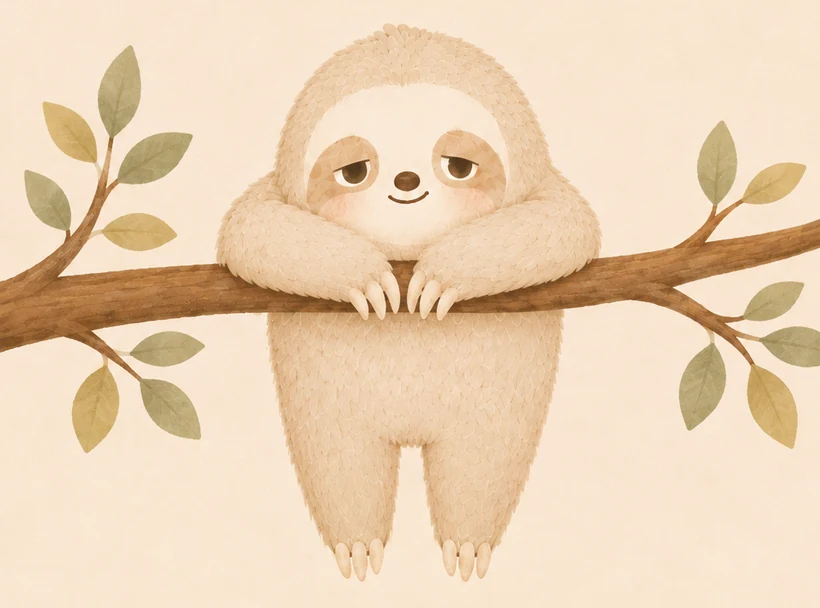
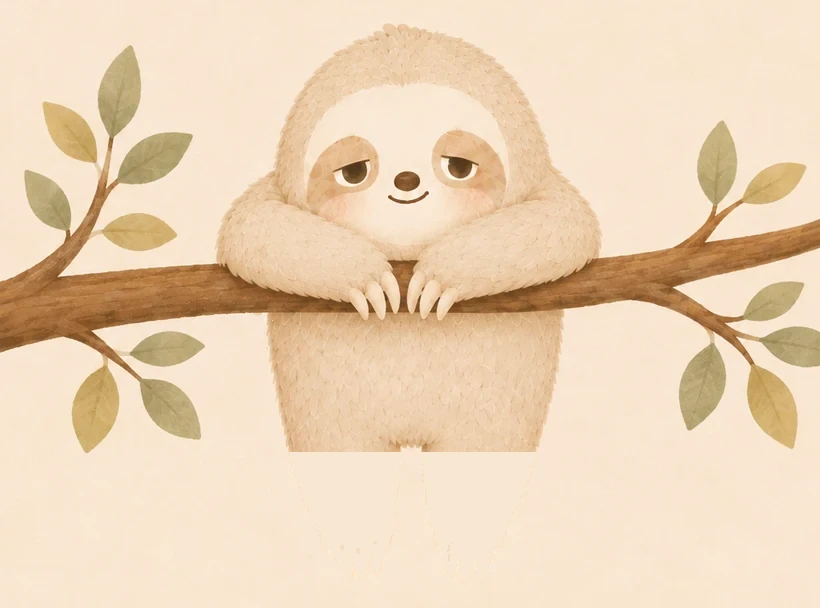
對話框的尾巴不再戳到頭；眨眼加快；兩條腿會開合
## 十七張的 ml 全部算錯了

`ml`（泡泡往圖片壓多少）我當初是拿**白色臉盤**的右緣算的。
但頭的毛比臉盤還往外 8–26% —— 尾巴閃過了臉盤，卻戳進毛裡。

改成量「臉盤所在那幾列裡，整個非背景區域」的最右欄。
修正後幾乎每張都從負值（壓在圖上）變成正值（留空隙）。
實測 r9：尾尖從戳進頭 8px 變成清空 13px。

⚠ `at`（尾巴的高度）仍然用白色臉盤 —— 那個要對準眼睛的位置，量臉盤是對的。
**兩個數字量的是不同東西，不要一起改。**

## 眨眼 6.5s → 3.6s

她的原話：「這個頁面很難停太久」。閉著仍是 180ms。

## 兩條腿開合

腿從同一張圖切下來（透明底），底圖對應位置擦成背景色，各自繞髖部 ±7° 反向轉。
髖部上方留 6px 的毛當蓋子，轉的時候露出來的是身體不是背景。

⛔ 這招能用**只因為腿本來就懸空** —— 左右和中間都是平背景，邊界乾淨。
同樣的切法在樹枝上失敗過（波浪狀的邊、還有爪子跨在上面）。
**要切之前先問：這個東西的邊界是不是乾淨的。**

ASSETS 37 -> 38

Changed region(s): [[0.5183, 0.7188, 0.6707, 0.9688], [0.3354, 0.7188, 0.4878, 0.9688]]

diff --git a/index.html b/index.html
@@ -264,7 +264,7 @@ img { display: block; max-width: 100%; }
 }
 
 @media (prefers-reduced-motion: reduce) {
-  .bo-swing, .bo-leaf-a, .bo-leaf-b, .blink { animation: none; }
+  .bo-swing, .bo-leaf-a, .bo-leaf-b, .blink, .leg { animation: none; }
 }
 
 /* 慢寶全身站著說話：牠在左，話在右，尾尖指向牠的頭。
@@ -336,13 +336,32 @@ img { display: block; max-width: 100%; }
   position: absolute;
   left: 38.78%; top: 22.70%; width: 21.71%;
   opacity: 0; pointer-events: none;
-  animation: blink 6.5s linear infinite;
+  animation: blink 3.6s linear infinite;
 }
+/* 兩條腿開開合合。
+   腿是從同一張圖切下來的透明素材（懸空、左右和中間都是背景，邊界乾淨），
+   底圖對應的位置已經擦成背景色。**支點在髖部**，所以接縫處位移＝0；
+   髖部上方還留了 6px 的毛當蓋子，轉的時候露出來的是身體不是背景。
+
+   ⛔ 這招能用是因為腿本來就懸空。樹枝那次同樣想切，失敗了 ——
+   那裡的切線得沿著波浪狀的樹枝上緣走，而且有爪子跨在上面。
+   **要切之前先問：這個東西的邊界是不是乾淨的。** */
+.bo-stage img.leg {
+  position: absolute; top: 72.204%;
+  pointer-events: none;
+}
+.bo-stage img.leg-l { left: 31.951%; width: 18.049%; transform-origin: 55.4% 3.6%;
+                      animation: legL 2.6s ease-in-out infinite; }
+.bo-stage img.leg-r { left: 50.000%; width: 19.024%; transform-origin: 43.6% 3.6%;
+                      animation: legR 2.6s ease-in-out infinite; }
+@keyframes legL { 0%, 100% { transform: rotate(0deg); }   50% { transform: rotate(-7deg); } }
+@keyframes legR { 0%, 100% { transform: rotate(0deg); }   50% { transform: rotate(7deg); } }
+
 /* 成對的關鍵影格＝瞬間切換，眨眼不該是淡入淡出的。閉著約 180ms */
 @keyframes blink {
-  0%, 94%      { opacity: 0; }
-  94.1%, 96.8% { opacity: 1; }
-  96.9%, 100%  { opacity: 0; }
+  0%, 89%      { opacity: 0; }
+  89.1%, 94%   { opacity: 1; }   /* 約 180ms */
+  94.1%, 100%  { opacity: 0; }
 }
 
 .bo-stage.drape { width: min(100%, 430px, 44vh); }    /* 820x608，比 1.349。vh 上限在矮螢幕才會咬到 */
@@ -725,7 +744,7 @@ ol.steps li::before {
    ══════════════════════════════════════════════ */
 
 /* 素材版本。換過圖就 bump 一次，否則瀏覽器會一直用舊的快取 */
-const ASSETS = '37';
+const ASSETS = '38';
 const asset = p => p + '?v=' + ASSETS;
 
 const $ = (s, el = document) => el.querySelector(s);
@@ -1059,6 +1078,8 @@ const BO = {
   drape:   asset('assets/bo/hang_drape.webp'),       // 菜單頁那個 132px 的近景
   drapeTree: asset('assets/bo/hang_drape_tree.webp'),// 首頁：趴在有葉子的樹枝上
   blink:   asset('assets/bo/drape_blink.webp'),      // 上一張的眼睛那一帶，改成閉眼
+  legL:    asset('assets/bo/leg_l.webp'),            // 兩條腿切下來（透明底），各自繞髖部擺
+  legR:    asset('assets/bo/leg_r.webp'),
   cookA:   asset('assets/bo/cook_bowl.webp'),
   lie:     asset('assets/bo/lie_sleep.webp'),    // 菜單空的：牠趴著睡，旁邊一個空碗
   shrug:   asset('assets/bo/shrug.webp'),        // 搜尋沒結果：攤手（去背，要站在木紋上）
@@ -1301,14 +1322,19 @@ function typeSeq(el, lines, last, onDone) {
    `ml` —— 泡泡的 margin-left，決定它往圖片壓多少（正值＝留空隙）。
       ⚠ **尾巴現在是指著臉的，所以水平方向必須讓開，否則會從側面戳進臉裡。**
       （舊版尾巴固定在泡泡 58% 高、比臉低，所以壓上去也沒撞到，那是僥倖。）
-      ml ＝ 臉盤右緣px ＋ 8 ＋ 尾巴長 16 − 顯示寬度，夾在 [−34, +14]
-      端鍋是唯一要留空隙的（+10）—— 牠正面站著，臉幾乎佔滿畫面寬度
+      ml ＝ **頭部右緣**px ＋ 8 ＋ 尾巴長 16 − 顯示寬度，夾在 [−34, +14]
 
-   量臉盤：找 R>247 G>238 B>225 的白色區域，取列的中位數（中心）和最右欄（右緣）。 */
+   ⛔ **右緣要量「頭」不是量「臉盤」。** 2026-08-17 十七張全部算錯：
+   白色臉盤的右緣比頭的實際輪廓少 8–26%（毛在外面），
+   尾巴閃過了臉盤卻戳進毛裡，使用者的原話是「不要戳到人家的頭」。
+   修正後幾乎每張都從負值（壓在圖上）變成正值（留空隙）。
+
+   量法：`at` 用白色臉盤（R>247 G>238 B>225）的列中位數；
+   `ml` 用**那幾列裡整個非背景區域**的最右欄。 */
 const MURMUR_POSES = [
   //                          at      ml       臉盤中心 / 右緣
-  { img: () => BO.cookA, at: 37, ml:   0 },   // 站著攪碗  25% / 70%
-  { img: () => BO.glass, at: 40, ml:  -2 },   // 看沙漏    27% / 67%
+  { img: () => BO.cookA, at: 37, ml: +14 },   // 站著攪碗  25% / 70%
+  { img: () => BO.glass, at: 40, ml: +9 },   // 看沙漏    27% / 67%
 ];
 
 /* 抱著食材的姿勢，對應那道菜的主料 —— 牠抱著牛肉出現在銅盤烤肉那頁，
@@ -1318,22 +1344,22 @@ const MURMUR_POSES = [
    寧可比對不到掉回中性姿勢，也不要對應錯的食材。 */
 const HOLD_POSES = [
   //  比對詞               姿勢                              at   ml
-  [/泡菜/,        { img: () => BO.kimchi,  at: 39, ml:  -6 }],  // 必須排在任何含「菜」的規則前面
-  [/海帶/,        { img: () => BO.seaweed, at: 38, ml:  -9 }],
-  [/香蕉/,        { img: () => BO.banana,  at: 41, ml:  -7 }],
-  [/燉飯/,        { img: () => BO.stirpan, at: 44, ml:  -5 }],  // 要一直攪的，排在「飯」前面
-  [/炒/,          { img: () => BO.spatula, at: 41, ml:  -8 }],  // 炒＝鍋鏟
-  [/義大利麵|麵條/,{ img: () => BO.cookB,   at: 35, ml: +10 }],  // 平底鍋 —— 蒜片冷油慢香是在平底鍋裡
-  [/肉醬/,        { img: () => BO.lidpot,  at: 39, ml:  -5 }],  // 蓋著鍋蓋慢慢燉。⚠ 要排在「牛」前面，
+  [/泡菜/,        { img: () => BO.kimchi, at: 39, ml: +9 }],  // 必須排在任何含「菜」的規則前面
+  [/海帶/,        { img: () => BO.seaweed, at: 38, ml: +7 }],
+  [/香蕉/,        { img: () => BO.banana, at: 41, ml: +8 }],
+  [/燉飯/,        { img: () => BO.stirpan, at: 44, ml: +8 }],  // 要一直攪的，排在「飯」前面
+  [/炒/,          { img: () => BO.spatula, at: 41, ml: +8 }],  // 炒＝鍋鏟
+  [/義大利麵|麵條/,{ img: () => BO.cookB, at: 35, ml: +10 }],  // 平底鍋 —— 蒜片冷油慢香是在平底鍋裡
+  [/肉醬/,        { img: () => BO.lidpot, at: 39, ml: +5 }],  // 蓋著鍋蓋慢慢燉。⚠ 要排在「牛」前面，
                                                                //   否則番茄肉醬會被副標的「豬牛混合」攔走
-  [/雞/,          { img: () => BO.chicken, at: 43, ml:  -1 }],
-  [/牛/,          { img: () => BO.beef,    at: 41, ml:  -5 }],
-  [/醬醃/,        { img: () => BO.taste,   at: 45, ml:  -9 }],  // 醬汁類，牠試味道
-  [/馬鈴薯|洋蔥/,  { img: () => BO.root,    at: 39, ml:  -4 }],
-  [/櫛瓜|青菜|菠菜|蔬菜/, { img: () => BO.basket, at: 40, ml: -4 }],
-  [/鍋/,          { img: () => BO.pot,     at: 42, ml:  -8 }],  // 燉煮類
-  [/飯/,          { img: () => BO.rice,    at: 45, ml:  -6 }],  // 排在「鍋」後面：辣醬鍋要的是鍋，不是那碗飯
-  [/蛋/,          { img: () => BO.egg,     at: 47, ml:  -6 }],  // 目前 12 道都比對不到，備給以後的蛋料理
+  [/雞/,          { img: () => BO.chicken, at: 43, ml: +12 }],
+  [/牛/,          { img: () => BO.beef, at: 41, ml: +2 }],
+  [/醬醃/,        { img: () => BO.taste, at: 45, ml: +9 }],  // 醬汁類，牠試味道
+  [/馬鈴薯|洋蔥/,  { img: () => BO.root, at: 39, ml: +3 }],
+  [/櫛瓜|青菜|菠菜|蔬菜/, { img: () => BO.basket, at: 40, ml: +8 }],
+  [/鍋/,          { img: () => BO.pot, at: 42, ml: +8 }],  // 燉煮類
+  [/飯/,          { img: () => BO.rice, at: 45, ml: +14 }],  // 排在「鍋」後面：辣醬鍋要的是鍋，不是那碗飯
+  [/蛋/,          { img: () => BO.egg, at: 47, ml: +9 }],  // 目前 12 道都比對不到，備給以後的蛋料理
 ];
 
 function murmurPose(r) {
@@ -1512,6 +1538,8 @@ function paintHome(box) {
     ${say('', 'bottom', ' data-at="50%"')}
     <div class="bo-stage drape">
       <img src="${BO.drapeTree}" alt="慢寶">
+      <img class="leg leg-l" src="${BO.legL}" alt="" aria-hidden="true">
+      <img class="leg leg-r" src="${BO.legR}" alt="" aria-hidden="true">
       <img class="blink" src="${BO.blink}" alt="" aria-hidden="true">
     </div>
     <div class="gate">
